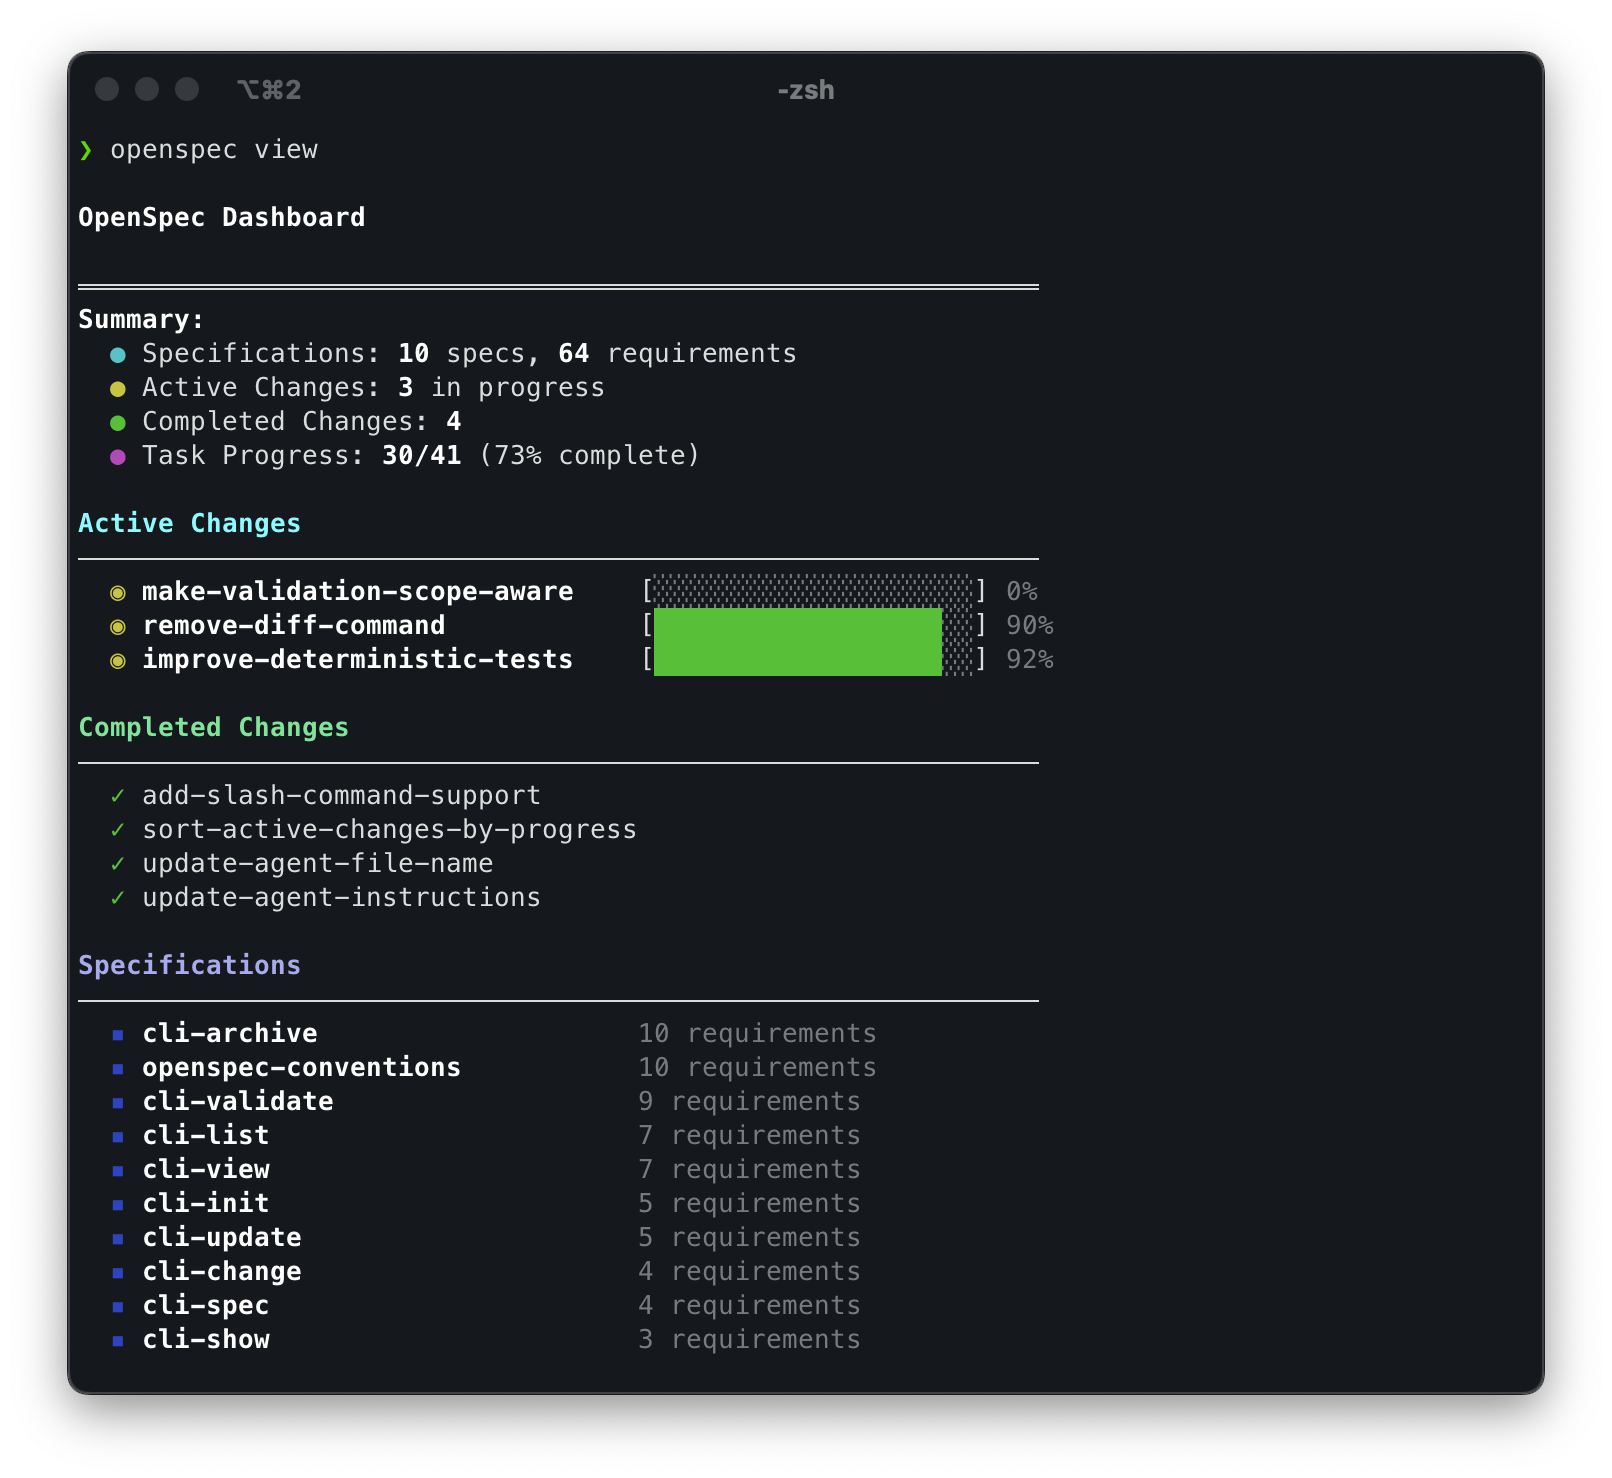
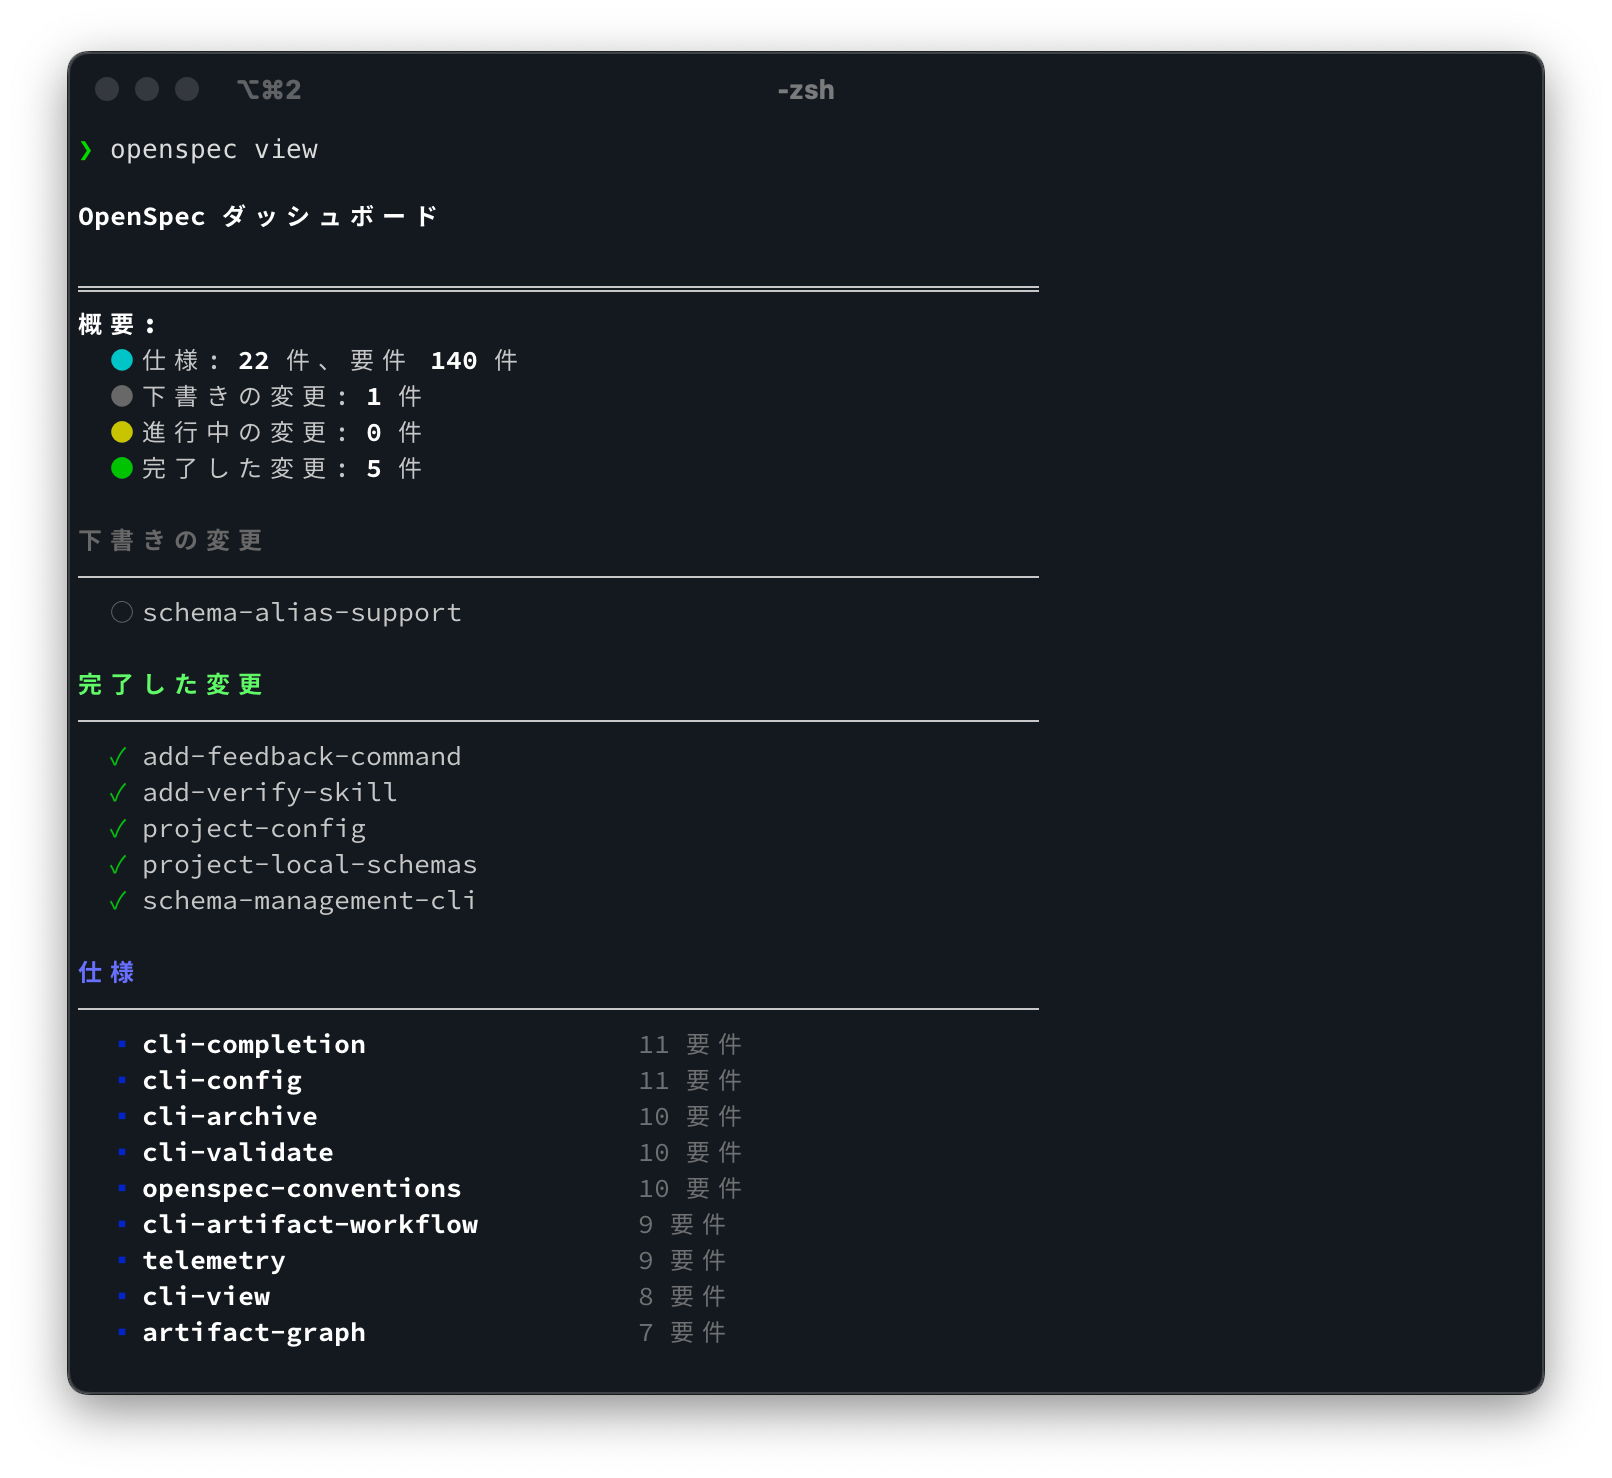
docs: v0.23.0-1 の日本語追記
主な変更:
- README の OpenSpec-J 補足マーカーと注記を更新
- CHANGELOG に v0.23.0-1 の [OpenSpec-J] 項目を追記
- upstream-sync 手順に補足マーカー維持のチェックを追加
- OpenSpec ダッシュボード画像を差し替え

理由 / 背景:
- ローカライズ補足の維持と差分同期の漏れ防止のため

動作確認:
- 追加実施なし（直近の pnpm test 実行結果を参照）

影響範囲:
- README.md
- CHANGELOG.md
- upstream-sync-v0.23.0.md
- assets/openspec_dashboard.png
- AGENTS.OpenSpec-J.md

互換性:
- 破壊的変更なし

diff --git a/AGENTS.OpenSpec-J.md b/AGENTS.OpenSpec-J.md
@@ -199,6 +199,7 @@ OpenSpec-J でのローカライズは、次の 3 レイヤーに分けて考え
 - upstream の README 更新を検知したら、その差分を README.md に反映するタスクを提案する。
 - 翻訳編集時、コマンド名・ファイルパスは変更しない。
 - README.md / docs のコードブロック内に残る英文の翻訳を確認する（コマンド/パス/必須キーワードは維持）。
+- 既存文の修正が入った場合は、過去の日本語訳を参照し、語調と表現をそろえる。
 
 ---
 
@@ -443,6 +444,10 @@ git checkout -b ja-sync/v0.x.y   # 必要に応じて同期用ブランチを作
 - README の対話例ラベルを日本語化。
 - docs のスキーマ/リリース計画/カスタマイズ例の英文を日本語化。
 - README/docs のコードブロック内英文チェックを運用ルールに追記。
+- README の OpenSpec-J 補足マーカー追加とソース・オブ・トゥルース注記を復元。
+- `upstream-sync-v0.23.0.md` のチェック項目を追加。
+- CHANGELOG に v0.23.0-1 の [OpenSpec-J] 項目を追記。
+- ダッシュボード画像を差し替え。
 
 #### テスト状況
 - `pnpm test` を実行（52ファイル / 1022 パス）

diff --git a/CHANGELOG.md b/CHANGELOG.md
@@ -3,6 +3,14 @@
 OpenSpec-J（Fission-AI/OpenSpec の日本語フォーク）の公式 changelog を日本語で整理したものです。本プロジェクトで行った変更は **[OpenSpec-J]** タグで記載しています。
 
 
+## 0.23.0-1
+
+- **[OpenSpec-J]** README の OpenSpec-J 独自文（ローカライズ版の位置づけ/同期元表記）を整理し、補足注釈を追記。
+- **[OpenSpec-J]** README の「仕組み」補足（ソース・オブ・トゥルース解説）を復元し、維持用マーカーを追加。
+- **[OpenSpec-J]** README と docs のコード例内に残っていた英文を日本語化し、対話例ラベルを日本語表記に統一。
+- **[OpenSpec-J]** schema/OPSX 関連 docs の英語例・注記を日本語化。
+- **[OpenSpec-J]** upstream 追従手順に README の同期元表記と補足マーカー維持のチェック項目を追記。
+
 ## 0.23.0
 
 - **[OpenSpec-J]** schema/feedback コマンドの CLI 文言と補完、関連スキル手順を日本語化。

diff --git a/upstream-sync-v0.23.0.md b/upstream-sync-v0.23.0.md
@@ -61,6 +61,7 @@ git merge main
 - 変更箇所のみ翻訳し、未変更箇所は現行を維持
 - 見出し・キーワードは upstream と同一（パーサ依存のものは変更しない）
 - コマンド名・フラグ・ファイルパスは翻訳しない
+- README.md の OPENSPEC-J 補足マーカー（`OPENSPEC-J:NOTE`）が維持されているか確認
 
 ## 5. 変更点のチェック
 
